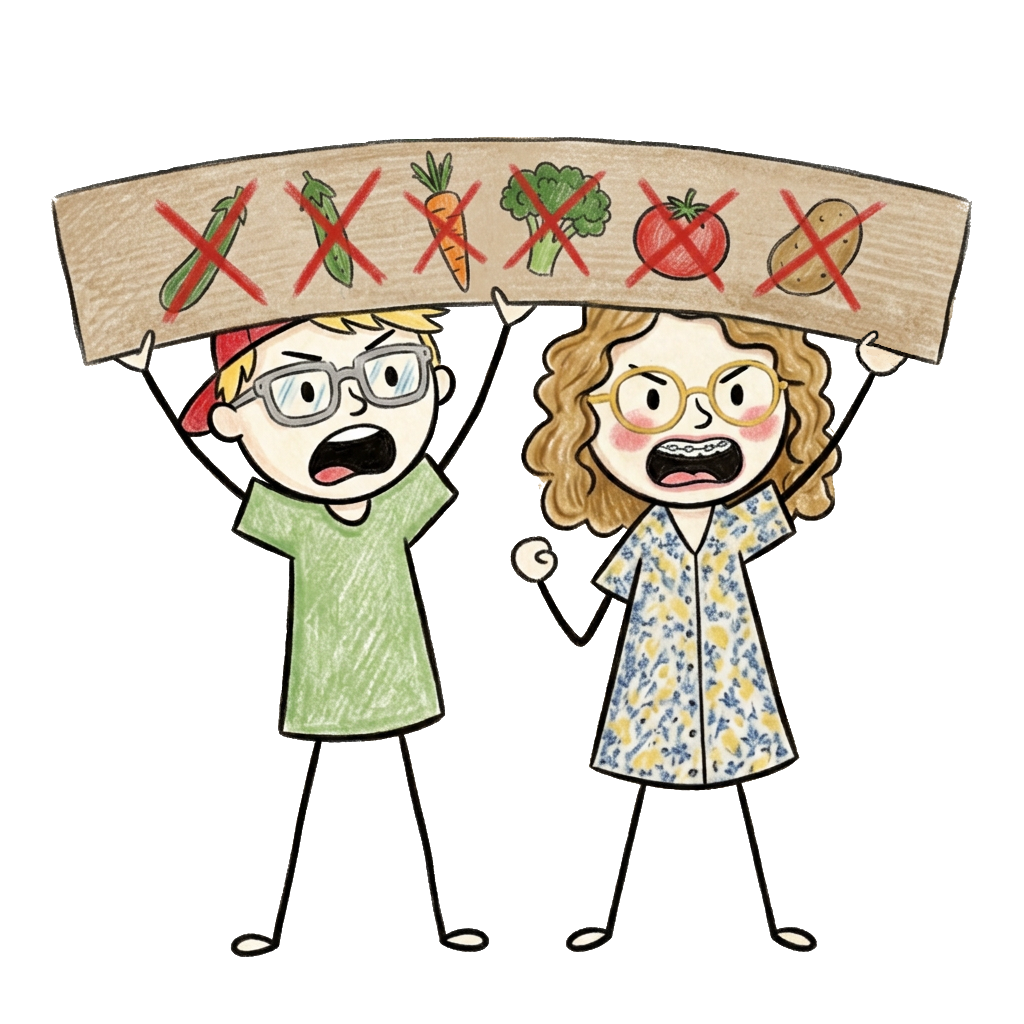
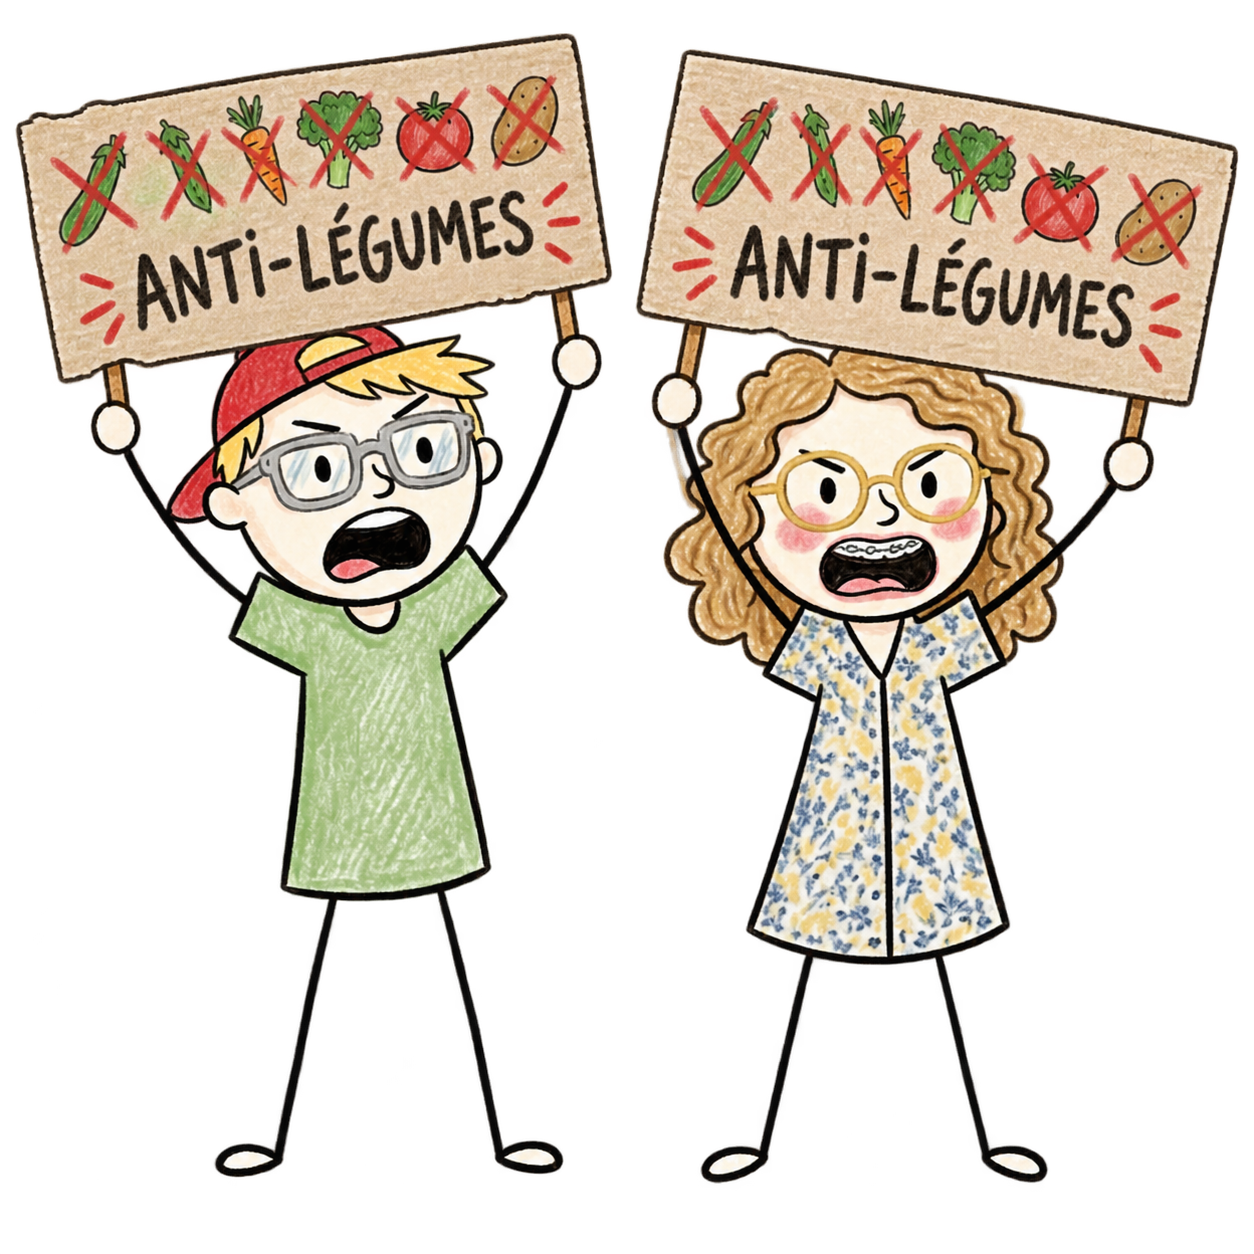
changement d'images de régime

diff --git a/script.js b/script.js
@@ -141,7 +141,7 @@ const ETATS_GUIDE = {
   defaut:  { pere: 'images/pereparici.png',   mere: 'images/mereparici.png' },
   licorne: { pere: 'images/perelicorne.png',  mere: 'images/merelicorne.png' },
   nain:    { pere: 'images/perenain.png',     mere: 'images/merenaine.png' },
-  regime:  { pere: 'images/enfantvegan.png',  mere: 'images/enfantvegan.png' },
+  regime:  { pere: 'images/fillevegan.png',  mere: 'images/filsvegan.png' },
   logement:{ pere: 'images/fillelogement.png', mere: 'images/filslogement.png' }, 
   aquaponey:  { pere: 'images/filleaquaponey.png',  mere: 'images/filsaquaponey.png' },
   chanson: { pere: 'images/peredanse.gif',    mere: 'images/chatclac.gif' }
